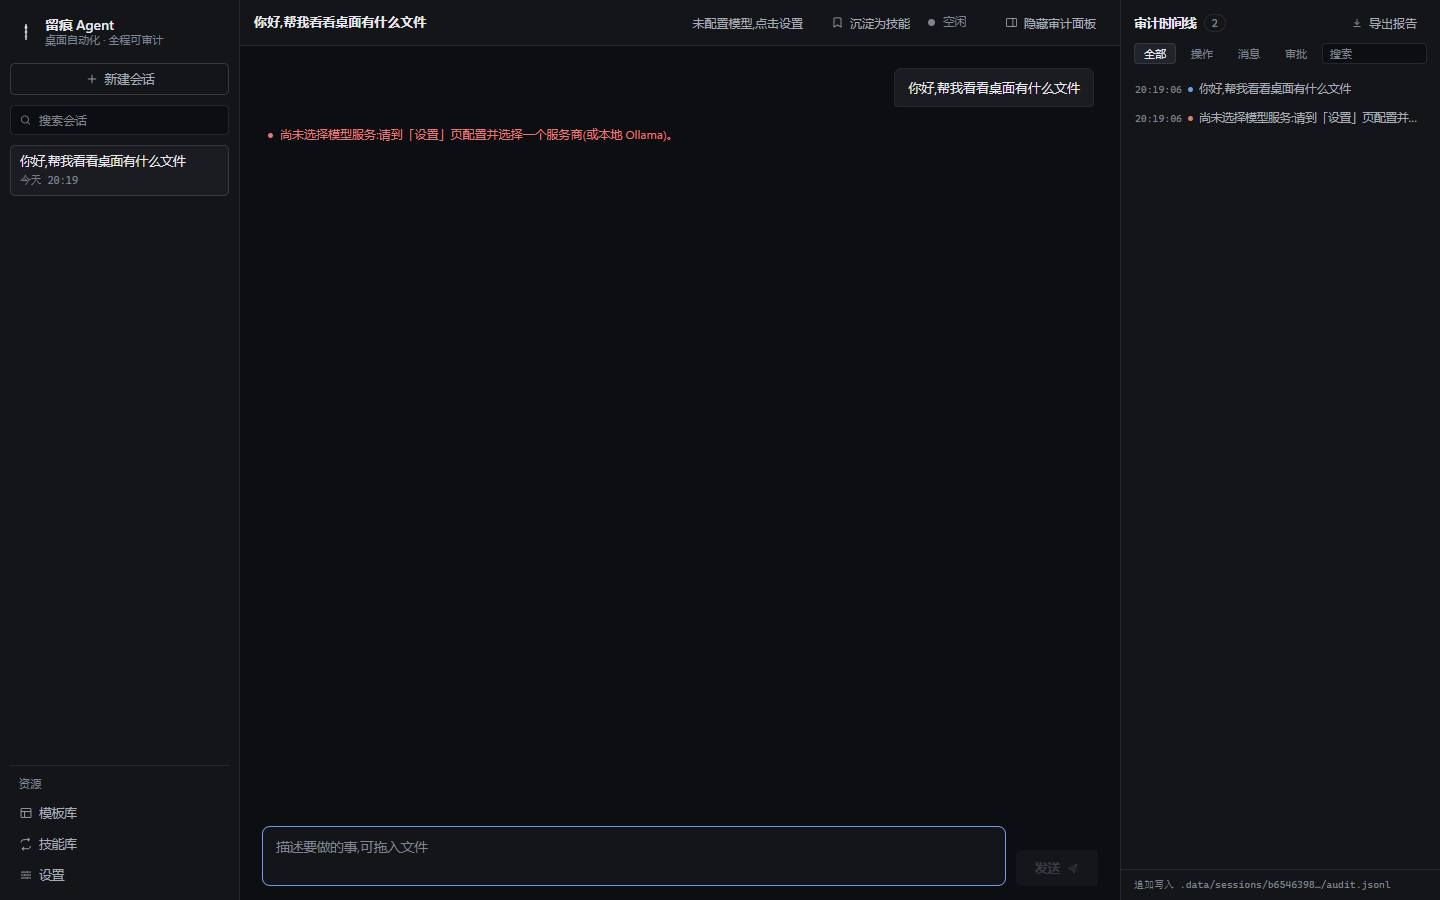
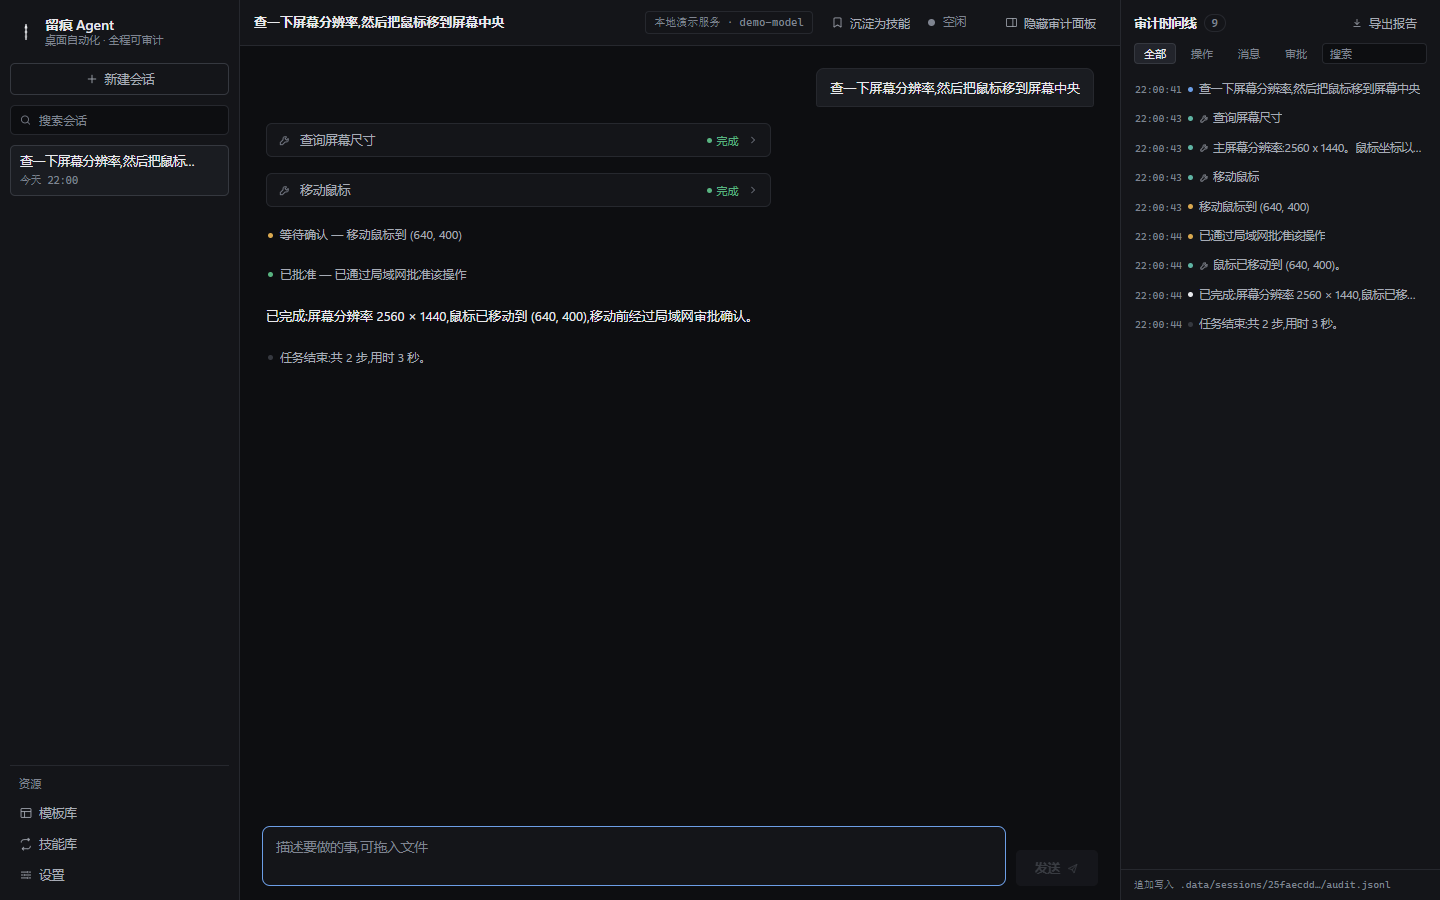
docs: 更换界面截图为真实闭环演示,README 移除路线图并补充版权
- docs/screenshot.png 重拍:原生键鼠工具卡 + 局域网批准 + 收尾汇报的完整闭环画面
- README 删除已全部完成的路线图章节,底部新增版权声明(© 2026 youxi · MIT)
- 介绍页页脚新增版权行

diff --git a/index.html b/index.html
@@ -943,6 +943,7 @@ html.js section.pad.drawn::before, html.js footer.drawn::before { transform: sca
         留痕 Agent
       </a>
       <span class="meta">桌面自动化，全程可审计</span>
+      <span class="meta">© 2026 youxi · MIT License</span>
       <nav class="foot-links" aria-label="页脚链接">
         <a href="https://github.com/FANG050829/trace-agent" target="_blank" rel="noopener noreferrer">
           <svg class="ic" width="13" height="13" aria-hidden="true"><use href="#i-external"/></svg>GitHub 仓库

diff --git a/README.md b/README.md
@@ -135,17 +135,12 @@ npm_config_electron_config_cache="E:\ai-project\ZCode\trace-agent\.cache\electro
 | `node tests/smoke2.mjs` | UI 冒烟(需先 `npm run dev` 开调试口) |
 | `node tests/fake-llm2.mjs` | 本地假模型,端到端验收键鼠 / 审批 / 定时链路 |
 
-## 🗺 路线图
+---
 
-- [x] 任务沉淀成技能:一键保存,可编辑、可重跑
-- [x] 审计记录导出:自包含 HTML 报告(含内嵌截图)
-- [x] 原生键鼠自动化引擎(nut.js,N-API 预编译):鼠标 / 滚轮 / 按键 / 打字,全部走审批门
-- [x] 打包安装程序(electron-builder NSIS),数据目录可选(env / 启动参数 / data-dir.txt / 设置页)
-- [x] 技能定时执行(每天 / 按间隔 / 单次,托盘常驻后台)
-- [x] 局域网内多人审批(高风险操作推送到手机浏览器确认,令牌门禁)
+<div align="center">
+  <img src="icons/icon.png" width="40" alt=""><br>
+  <b>留痕 Agent</b>
+  <p>Copyright © 2026 <b>youxi</b> · 以 <a href="LICENSE">MIT License</a> 开源发布<br>
+  本项目由人工与智能体协作构建——每一次提交,同样有迹可循。</p>
+</div>
 
-> 下一步的候选方向:技能导入导出与参数化、审计报告定时自动归档、多显示器截屏支持。
-
-## License
-
-[MIT](LICENSE)
